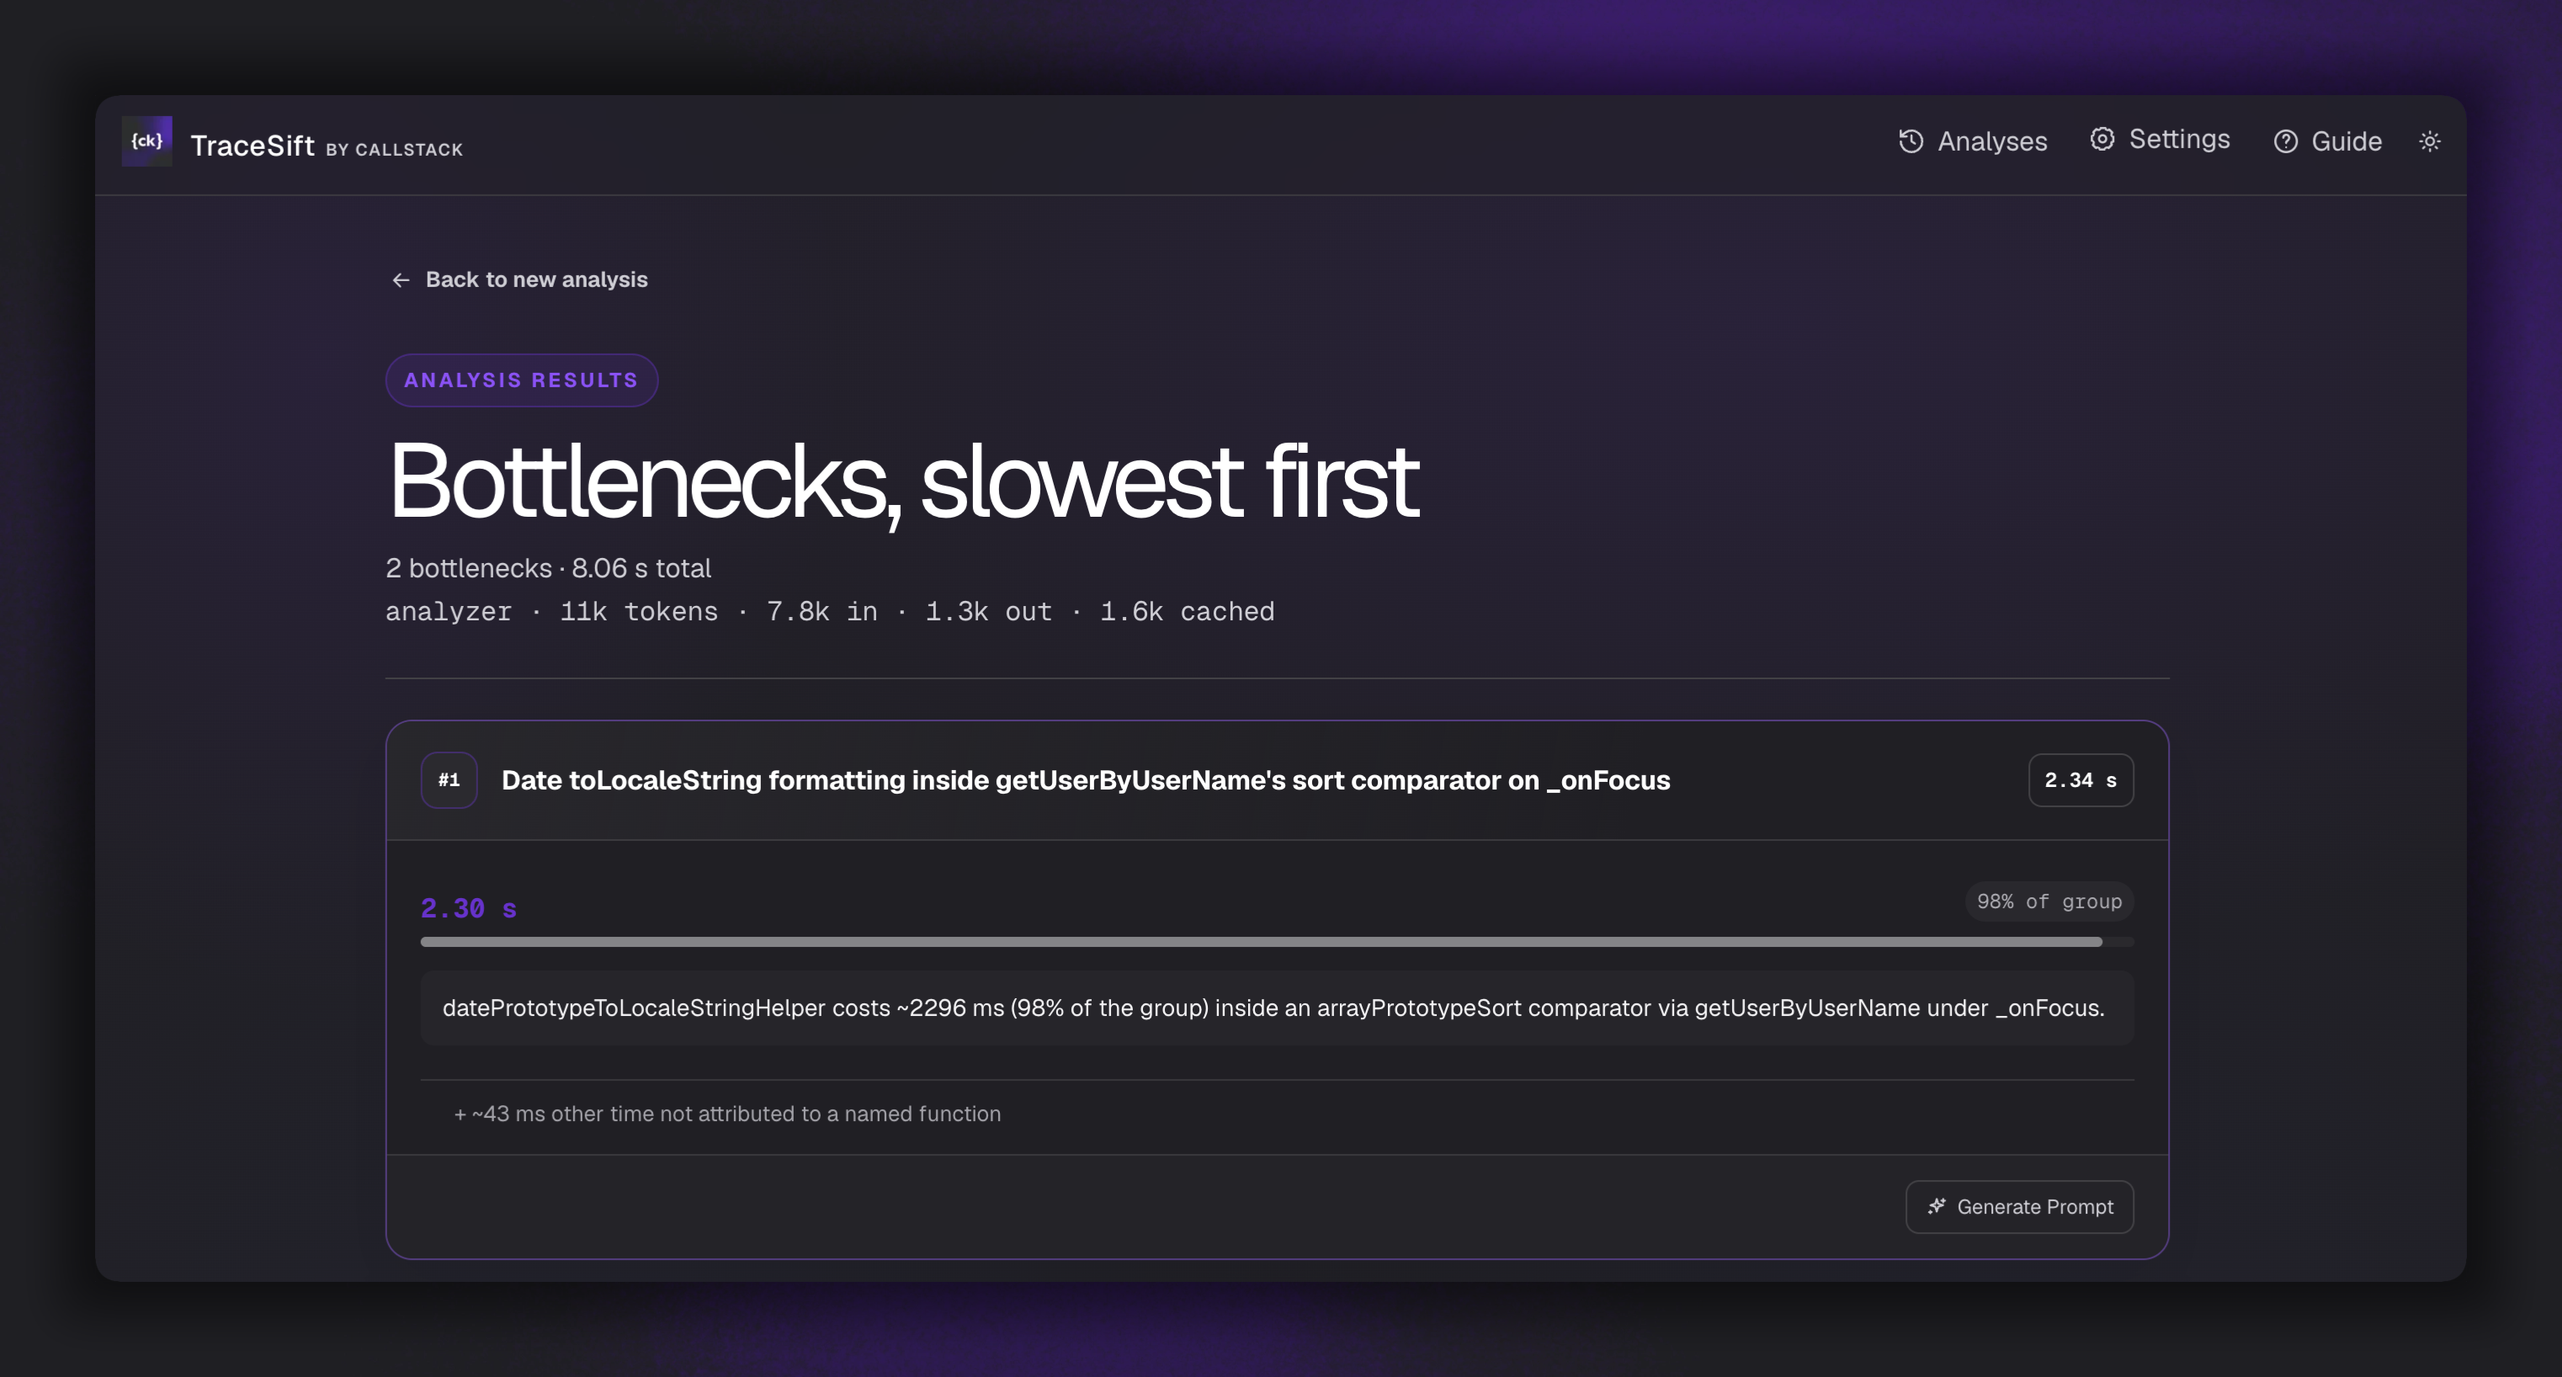
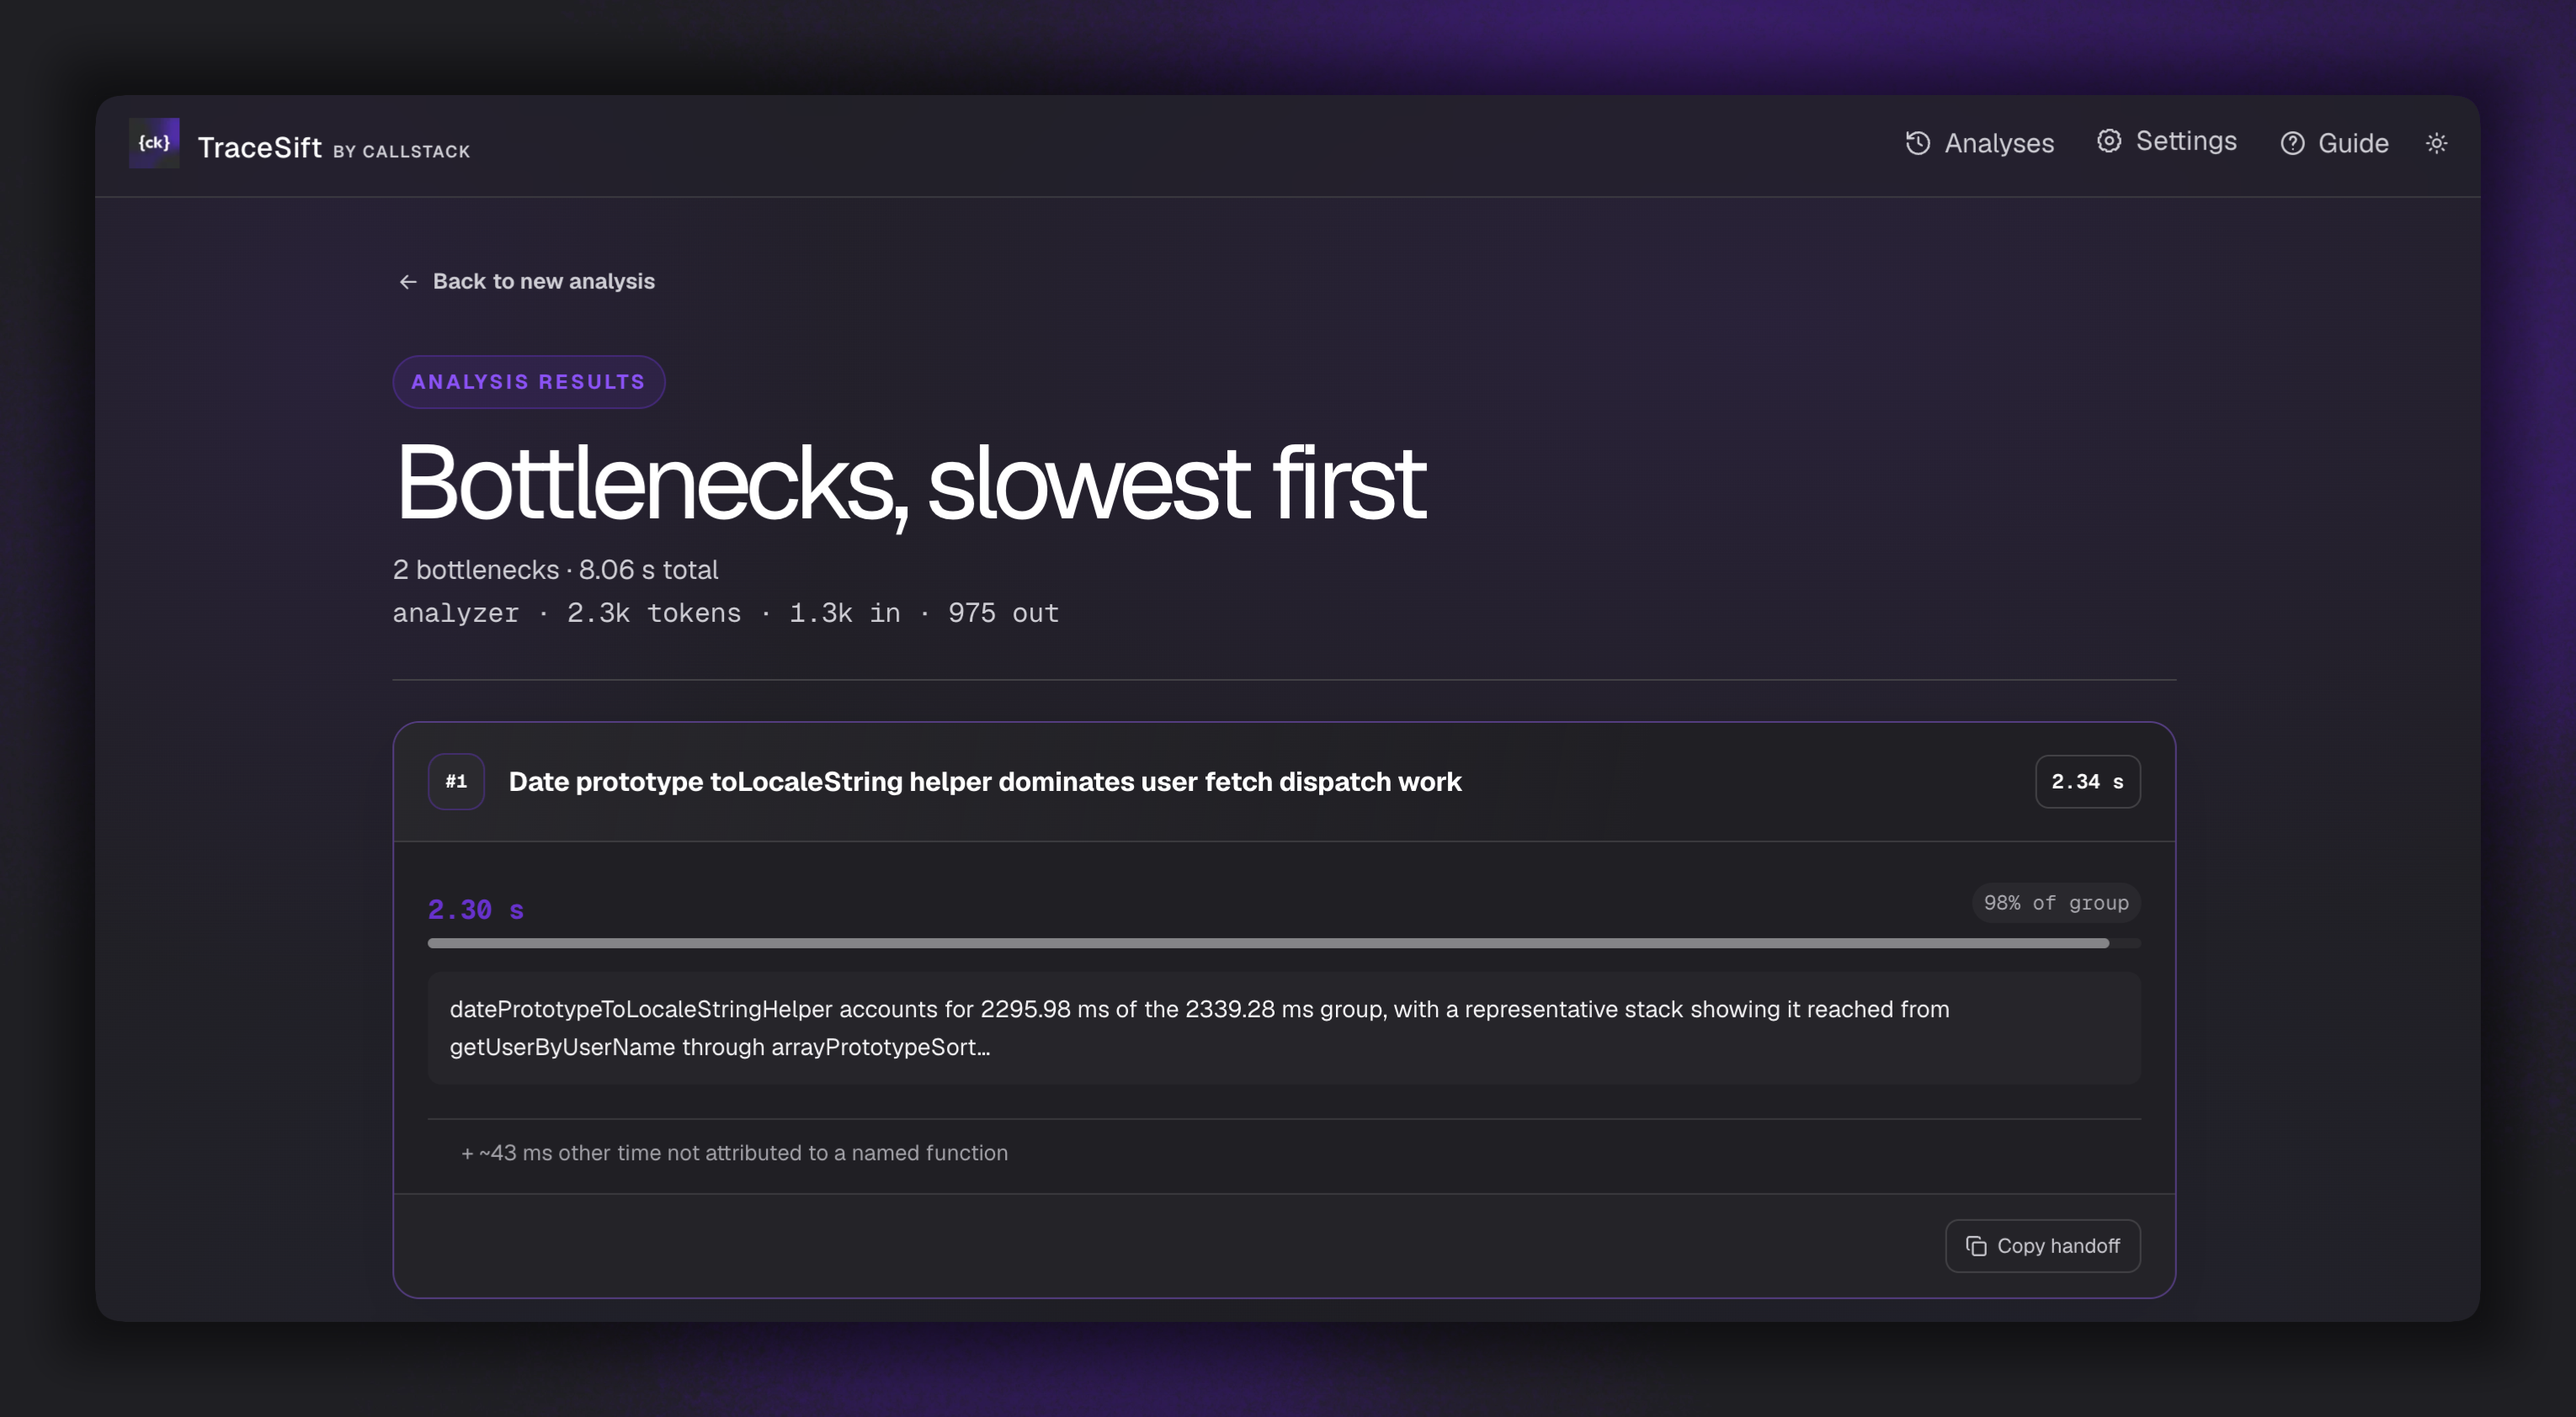
feat: add new assets

diff --git a/README.md b/README.md
@@ -80,13 +80,13 @@ Visualize the results sorted by longest to render. Each card provides a short su
 
 <img src="./assets/react-result.png" alt="React analysis"/>
 
-### 3. Generate a handoff prompt
+### 3. Copy the handoff
 
-When the bottleneck or React issue cards appear, choose the card you want to investigate and select **Generate Prompt**. When generation finishes, select **Copy Prompt** and hand it to your coding agent.
+When the bottleneck or React issue cards appear, choose the card you want to investigate and select **Copy Prompt**.
 
-<!-- Add bottleneck card and handoff prompt screenshot here -->
+<!-- Add bottleneck card and handoff screenshot here -->
 
-<img src="./assets/generate-prompt.gif" alt="Generate Prompt"/>
+<img src="./assets/handoff.gif" alt="handoff"/>
 
 ### 4. Reopen an analysis
 
